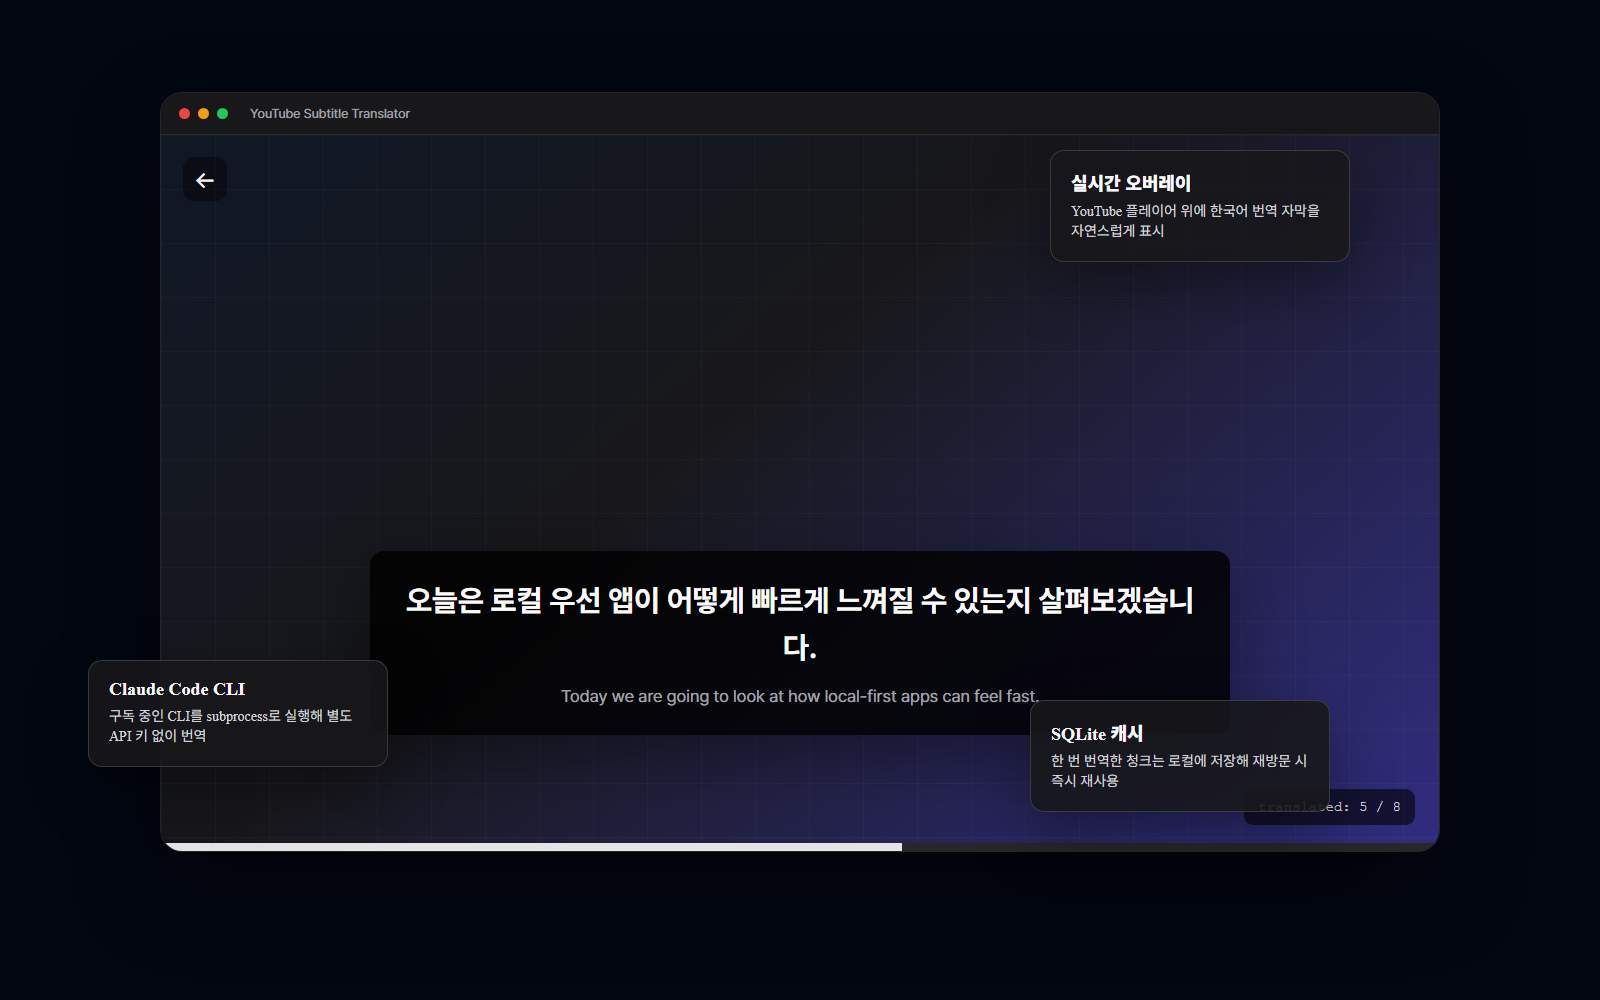
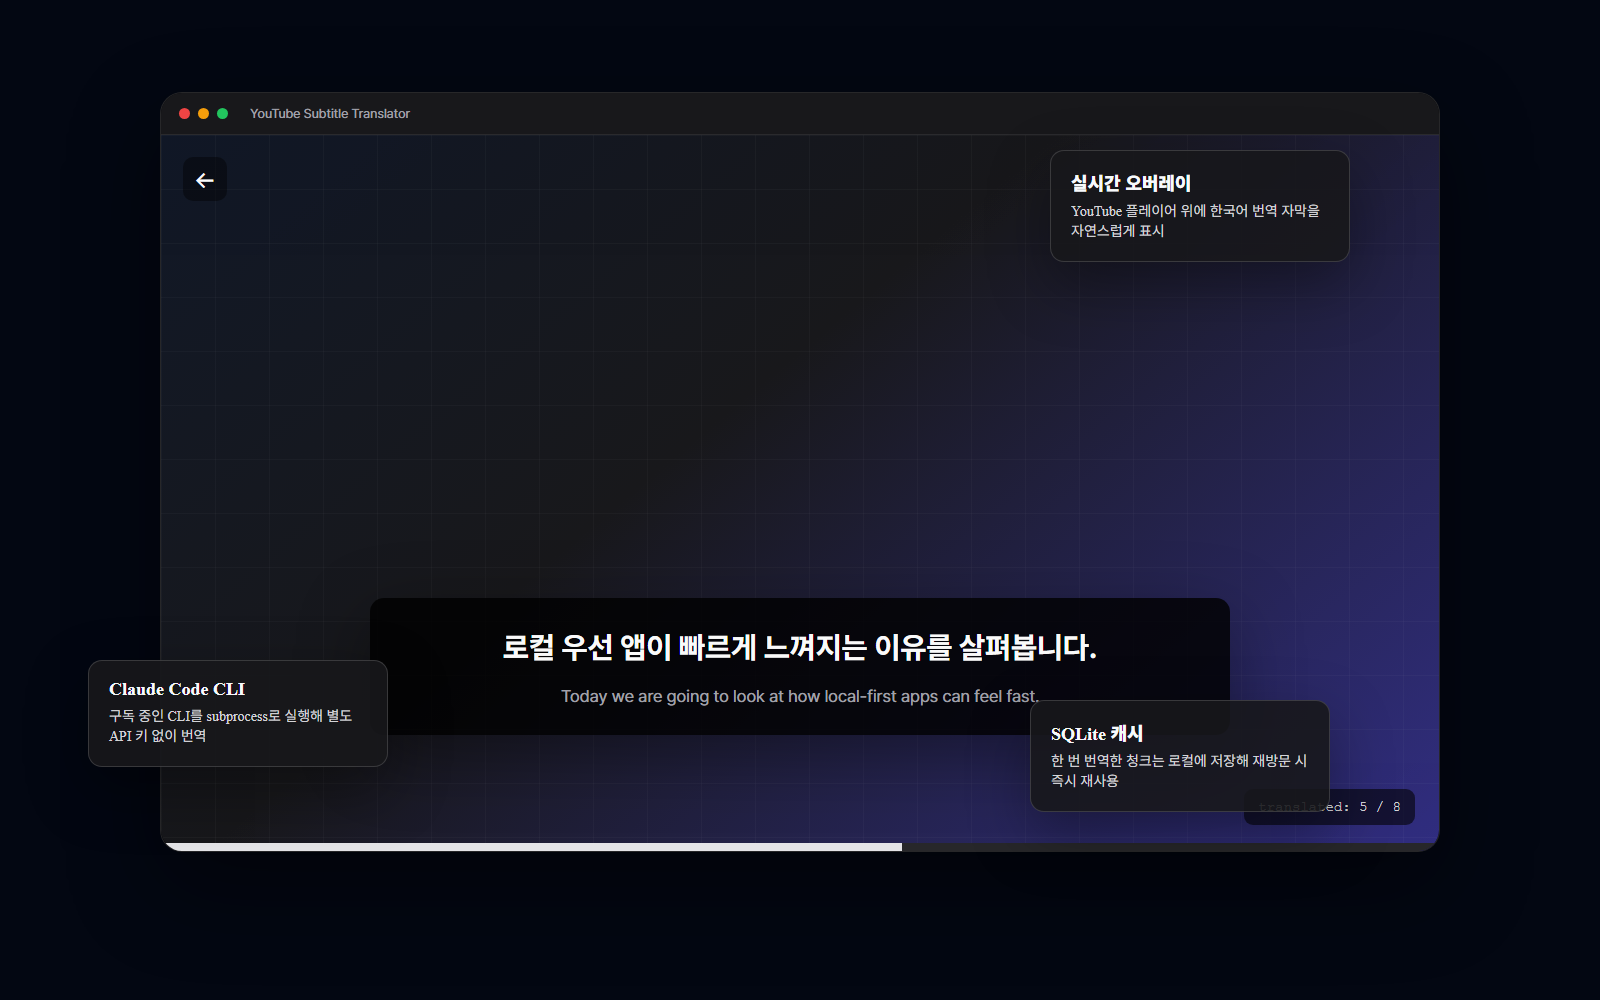
docs: README 데모 카피 정리
README 쇼케이스 이미지와 영상에서 긴 한국어 자막이 어색하게 줄바꿈되지 않도록 데모 문구를 짧게 다듬습니다.

수정된 문구를 반영해 Remotion hero/player 스틸과 MP4/GIF 데모 자산을 다시 렌더링했습니다.

Changed region(s): [[0.25, 0.527, 0.7812, 0.682]]

diff --git a/docs/remotion/readme-demo/src/copy.ts b/docs/remotion/readme-demo/src/copy.ts
@@ -19,8 +19,7 @@ export const sampleLines = [
   {
     original:
       "Today we are going to look at how local-first apps can feel fast.",
-    translated:
-      "오늘은 로컬 우선 앱이 어떻게 빠르게 느껴질 수 있는지 살펴보겠습니다.",
+    translated: "로컬 우선 앱이 빠르게 느껴지는 이유를 살펴봅니다.",
   },
   {
     original: "The key is to translate ahead of the playback position.",